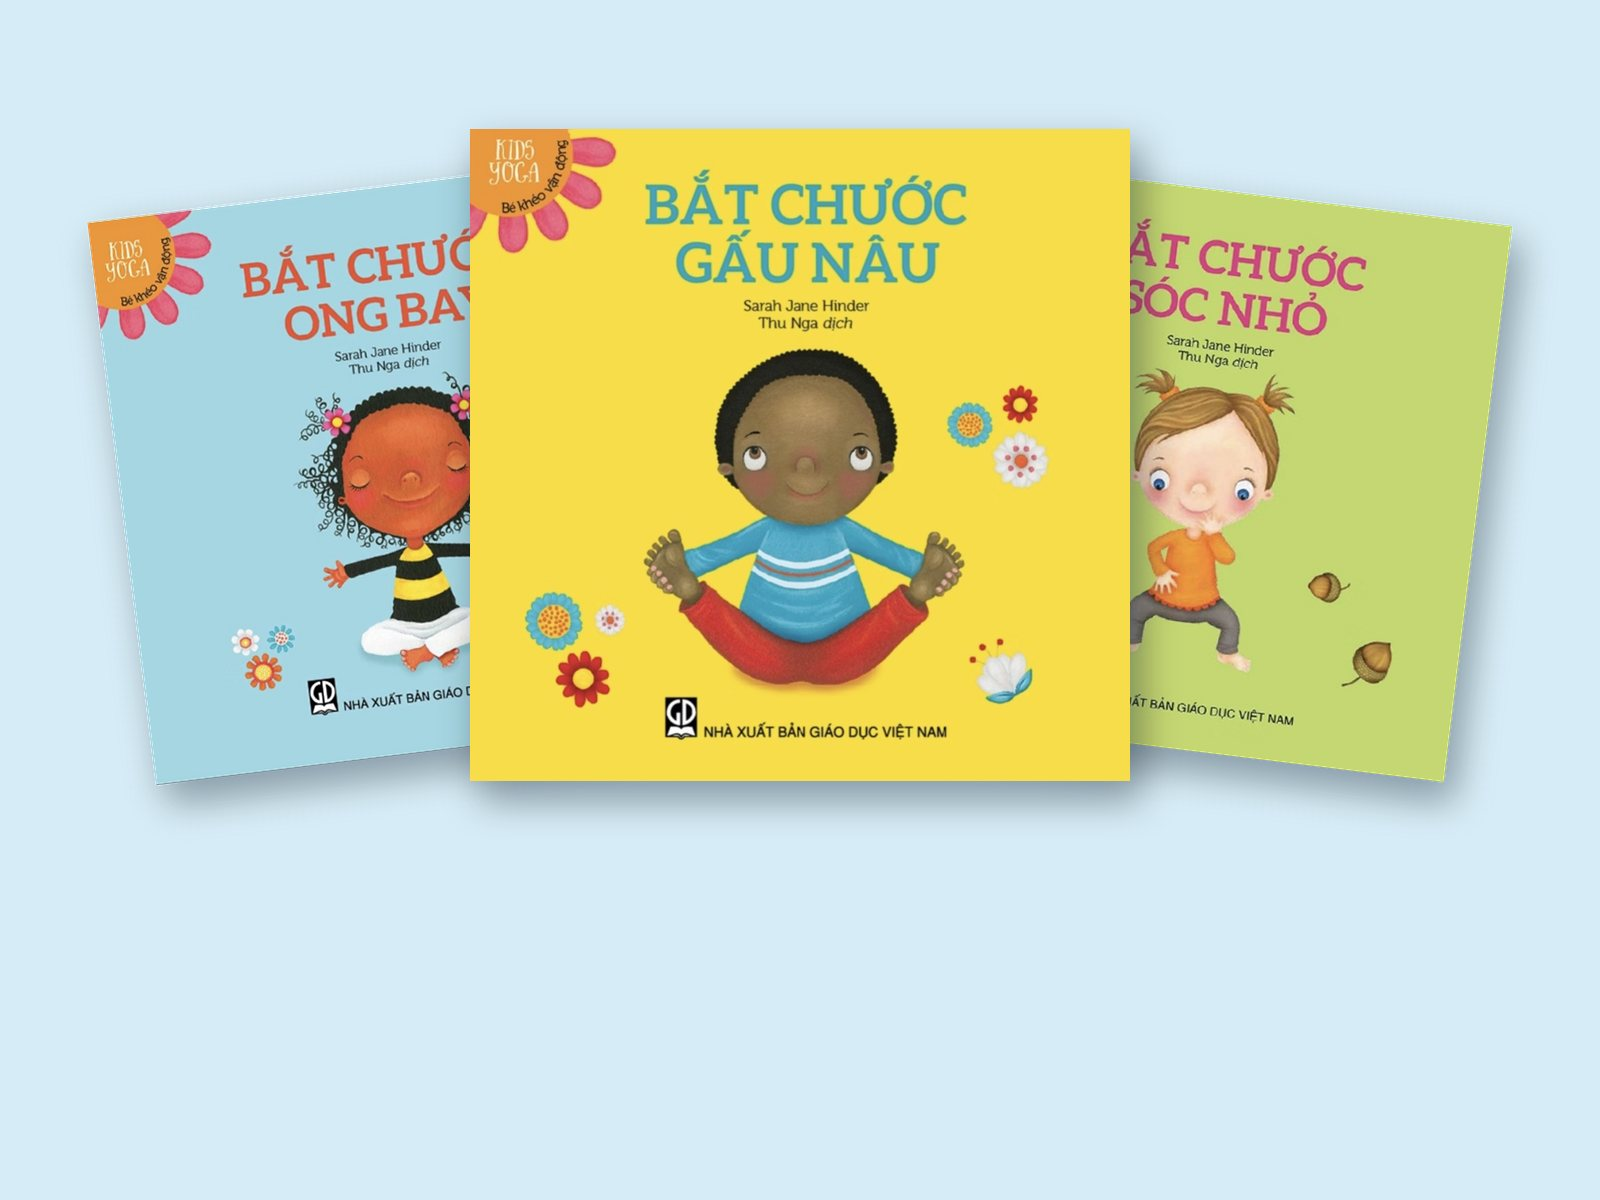
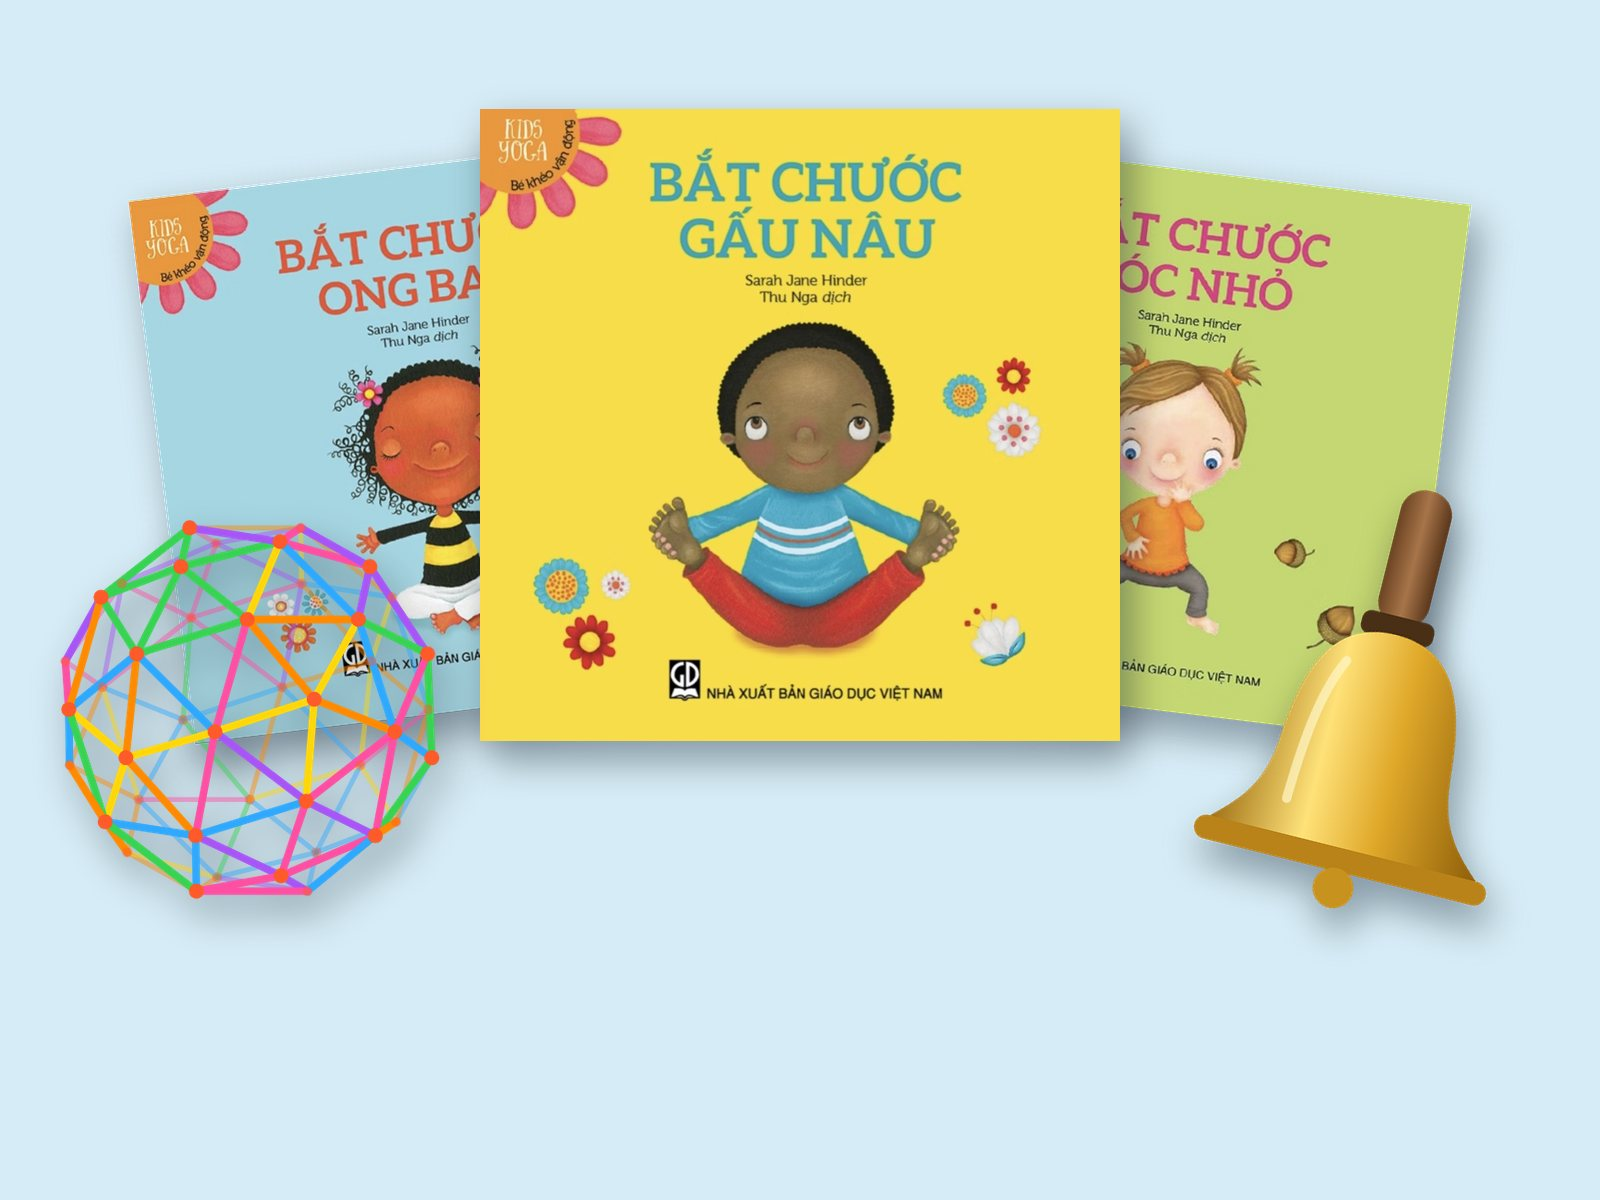
Ô Tài liệu, sách, dụng cụ: thêm quả bóng thở và chuông cạnh 3 cuốn Bắt chước
Claude-Session: https://claude.ai/code/session_01GhXcrGjsLVvM5gqdSfReJr

Changed region(s): [[0.0312, 0.0617, 0.9688, 0.8017], [0.5938, 0.2775, 0.6562, 0.4317]]

diff --git a/index.html b/index.html
@@ -109,7 +109,7 @@
           <span class="card-label">Tiếng Anh cho HLV Yoga</span>
         </a>
         <a href="#tai-lieu" class="video-card c-blue has-photo">
-          <img src="images/the-tai-lieu-sach.jpg" alt="Ba cuốn sách Bắt chước ong bay, gấu nâu, sóc nhỏ" width="1600" height="1200">
+          <img src="images/the-tai-lieu-sach.jpg?v=2" alt="Ba cuốn sách Bắt chước ong bay, gấu nâu, sóc nhỏ, cùng quả bóng thở và chiếc chuông tập yoga" width="1600" height="1200">
           <span class="card-label">Tài liệu, sách, dụng cụ</span>
         </a>
       </div>
